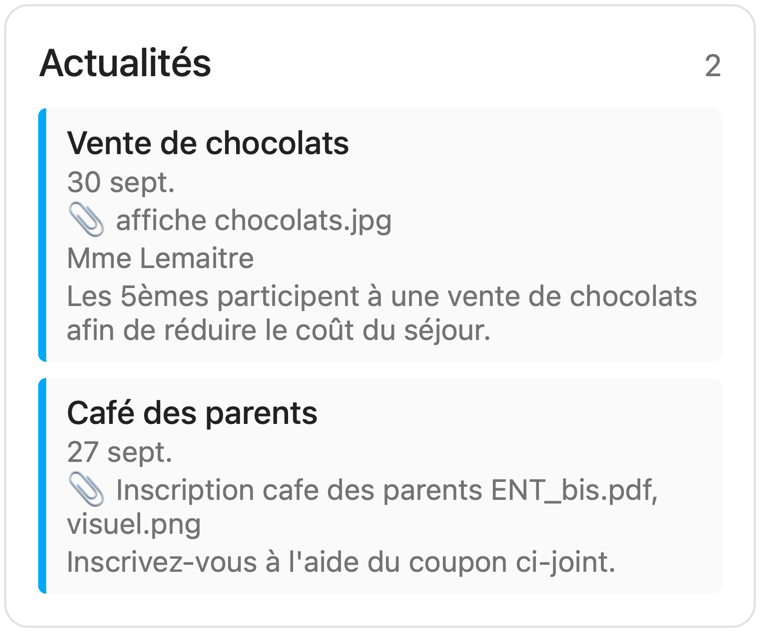
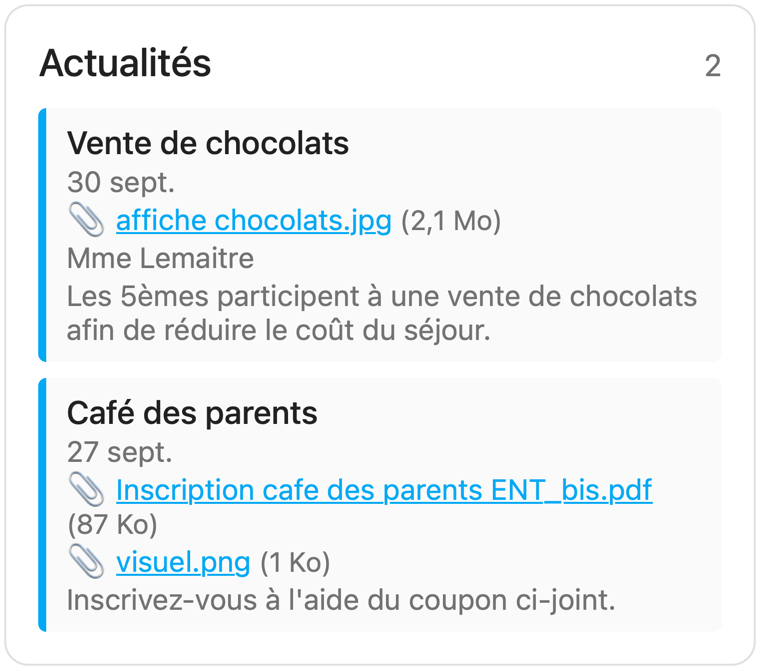
News card: attachments as clickable links with their size

diff --git a/custom_components/skolengo/www/skolengo-cards.js b/custom_components/skolengo/www/skolengo-cards.js
@@ -1203,6 +1203,31 @@
     return `<span class="skolengo-badge neutral">${escapeHtml(status)}</span>`;
   }
 
+  // Attachments of a news article: one line per file, as a link when the
+  // API gave an http(s) URL (it points to the school's ENT and normally needs
+  // an ENT login). Only http(s) URLs are linked, whatever the API returns.
+  function formatFileSize(bytes) {
+    if (!Number.isFinite(bytes) || bytes <= 0) return "";
+    if (bytes < 1024 * 1024) return `${Math.max(1, Math.round(bytes / 1024))} Ko`;
+    return `${(bytes / (1024 * 1024)).toFixed(1).replace(".", ",")} Mo`;
+  }
+
+  function renderAttachments(attachments) {
+    if (!Array.isArray(attachments)) return "";
+    return attachments
+      .filter((a) => a && a.name)
+      .map((a) => {
+        const size = formatFileSize(a.size);
+        const name = escapeHtml(a.name);
+        const link = /^https?:\/\//i.test(a.url || "")
+          ? `<a href="${escapeHtml(a.url)}" target="_blank" rel="noopener noreferrer" style="color:var(--primary-color)">${name}</a>`
+          : name;
+        const sizeLabel = size ? ` <span class="skolengo-subtitle">(${size})</span>` : "";
+        return `<div class="skolengo-line">📎 ${link}${sizeLabel}</div>`;
+      })
+      .join("");
+  }
+
   function createVieScolaireCard(listKeys, editorTag) {
   return class extends HTMLElement {
     setConfig(config) {
@@ -1308,13 +1333,7 @@
               ${item.title ? `<div class="skolengo-line">${escapeHtml(period)}</div>` : ""}
               ${item.category ? `<div class="skolengo-line">${escapeHtml(item.category)}</div>` : ""}
               ${item.reason ? `<div class="skolengo-line">${escapeHtml(item.reason)}</div>` : ""}
-              ${
-                Array.isArray(item.attachments) && item.attachments.length
-                  ? `<div class="skolengo-line">📎 ${escapeHtml(
-                      item.attachments.map((a) => a.name).filter(Boolean).join(", ")
-                    )}</div>`
-                  : ""
-              }
+              ${renderAttachments(item.attachments)}
               ${
                 item.issuer || item.author
                   ? `<div class="skolengo-line">${escapeHtml(item.issuer || item.author)}</div>`

diff --git a/README.md b/README.md
@@ -184,7 +184,7 @@ entity: sensor.skolengo_..._observations
 
 ### `skolengo-news-card`
 
-Actualités de l'établissement, à associer au capteur `..._news` (état = titre de la dernière actualité ; attributs `count` et `news` : date, titre, résumé, texte, auteur, lien, `image` (l'illustration de l'article, souvent le seul contenu d'une annonce) et `attachments` (nom, type, taille, lien des pièces jointes). Les liens pointent vers l'ENT de l'établissement et nécessitent d'y être connecté. Les pièces jointes ne sont disponibles qu'article par article côté Skolengo : elles sont récupérées une seule fois pour chacune des 10 actualités les plus récentes. Les actualités appartiennent à l'établissement, pas à l'élève : le capteur est rattaché à un appareil « Skolengo - *nom de l'établissement* », et il n'y en a qu'un seul même si plusieurs enfants y sont scolarisés.
+Actualités de l'établissement, à associer au capteur `..._news` (état = titre de la dernière actualité ; attributs `count` et `news` : date, titre, résumé, texte, auteur, lien, `image` (l'illustration de l'article, souvent le seul contenu d'une annonce) et `attachments` (nom, type, taille, lien des pièces jointes). Les liens pointent vers l'ENT de l'établissement et nécessitent d'y être connecté ; dans la carte, chaque pièce jointe est un lien cliquable. Les pièces jointes ne sont disponibles qu'article par article côté Skolengo : elles sont récupérées une seule fois pour chacune des 10 actualités les plus récentes. Les actualités appartiennent à l'établissement, pas à l'élève : le capteur est rattaché à un appareil « Skolengo - *nom de l'établissement* », et il n'y en a qu'un seul même si plusieurs enfants y sont scolarisés.
 
 <img src="docs/img/skolengo-news-card.png" alt="Rendu de la carte skolengo-news-card" width="380">
 
